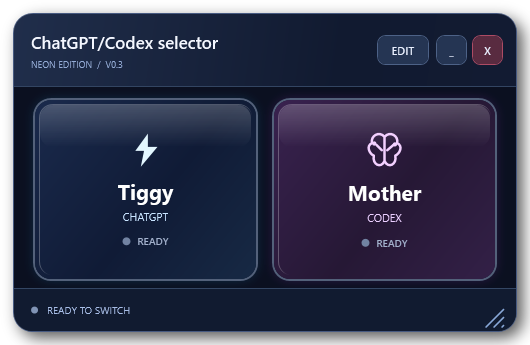
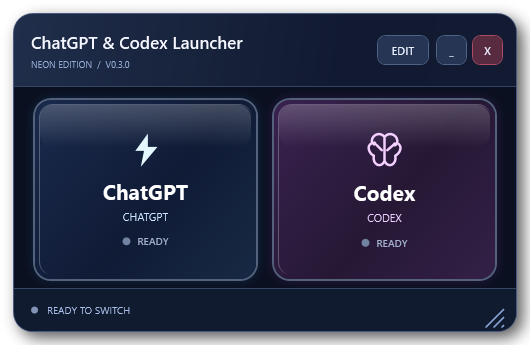
Use clear public ChatGPT and Codex branding

Changed region(s): [[0.1811, 0.5217, 0.3623, 0.6087], [0.1811, 0.087, 0.4528, 0.1449], [0.634, 0.5217, 0.8151, 0.5797]]

diff --git a/README.md b/README.md
@@ -1,6 +1,6 @@
-# Tiggy & Mother Launcher
+# ChatGPT & Codex Launcher
 
-A small floating Windows widget for switching an already-open ChatGPT desktop app between **Tiggy (ChatGPT)** and **Mother (Codex)**.
+A small floating Windows widget for switching an already-open ChatGPT desktop app between **ChatGPT** and **Codex**.
 
 Two buttons, editable names, and an optional always-on-top window. The launcher sends the same keyboard shortcuts you could press yourself.
 
@@ -8,9 +8,15 @@ Two buttons, editable names, and an optional always-on-top window. The launcher 
 
 *Rendered preview of the shipped interface. No desktop or chat content is shown.*
 
+## Why we made it
+
+Switching between ChatGPT and Codex felt clunky and confusing in our everyday use. We wanted a clear choice we could see and reach, so we made a small floating widget with two straightforward buttons.
+
+It keeps the existing app shortcuts and puts the choice within easy reach, with editable labels and an optional always-on-top window.
+
 ## Download and run
 
-1. [Download the latest Windows ZIP](https://github.com/Wilsonious/tiggy-mother-launcher/releases/latest/download/Tiggy-Mother-Launcher-v0.3.0-Windows.zip).
+1. [Download the latest Windows ZIP](https://github.com/Wilsonious/chatgpt-codex-launcher/releases/latest/download/ChatGPT-Codex-Launcher-v0.3.0-Windows.zip).
 2. Review the included source before running it. If the ZIP's **Properties** window shows **Unblock**, select it only if you trust the download, then apply the change.
 3. Use **Extract All** to unpack the ZIP into a normal folder you can write to. Run the launcher from the extracted folder.
 4. Open the **ChatGPT Windows desktop app** and sign in.
@@ -24,8 +30,8 @@ This is a portable script package, with no installer and no administrator requir
 
 | Button | Action in the accepted v0.3 build |
 | --- | --- |
-| **Tiggy** — blue | Focuses a detected ChatGPT desktop window and sends **Alt+3**. On the original tested PC, this selected ChatGPT. |
-| **Mother** — purple | Focuses a detected ChatGPT desktop window and sends **Alt+1**. On the original tested PC, this selected Codex. |
+| **ChatGPT** — blue | Focuses a detected ChatGPT desktop window and sends **Alt+3**. On the original tested PC, this selected ChatGPT. |
+| **Codex** — purple | Focuses a detected ChatGPT desktop window and sends **Alt+1**. On the original tested PC, this selected Codex. |
 
 These shortcut mappings are fixed in the source. ChatGPT app versions or configurations may map them differently; check the shortcuts in your own app before relying on the labels.
 
@@ -42,7 +48,7 @@ The selected card shows the **last mode requested by the widget**. It does not r
 
 *Rendered preview of the shipped interface.*
 
-Settings are saved locally in `%APPDATA%\NeonChatSelector\settings-v0.3.json`. An existing v0.3 settings file is reused. Personal settings are not included in the download.
+Settings are saved locally in `%APPDATA%\NeonChatSelector\settings-v0.3.json`. An existing v0.3 settings file is reused, including its saved button names. Fresh settings use **ChatGPT** and **Codex**. Personal settings are not included in the download.
 
 See [customization and troubleshooting](docs/CUSTOMIZATION.md) for reset steps and source-level changes.
 
@@ -56,7 +62,7 @@ See [customization and troubleshooting](docs/CUSTOMIZATION.md) for reset steps a
 
 There are no third-party PowerShell modules, npm packages, API keys, or REAPER dependencies.
 
-Jack live-tested the original v0.3 launcher and its edit controls on his Windows PC. Other Windows and ChatGPT app versions have not yet been independently validated.
+Jack live-tested the original v0.3 launcher and its edit controls on his Windows PC. The public branding update on **2026-10-08** changes default labels, display text, and comments while preserving that accepted behavior. Other Windows and ChatGPT app versions have not yet been independently validated.
 
 ## Known limits
 
@@ -82,7 +88,7 @@ Close the widget, then delete the extracted folder and any shortcut you created.
 
 ```text
 Start-Launcher.cmd         Windows launch helper
-src/                      Accepted v0.3 PowerShell source
+src/                      v0.3 PowerShell source with public labels
 scripts/Build-Release.ps1  Builds the portable ZIP and SHA-256 checksums
 docs/                     Customization, security, screenshots, release notes
 CHANGELOG.md              Release history

diff --git a/docs/releases/v0.3.0.md b/docs/releases/v0.3.0.md
@@ -1,15 +1,17 @@
-# Tiggy & Mother Launcher v0.3.0
+# ChatGPT & Codex Launcher v0.3.0
 
 Released 2026-10-08.
 
-The first public package of Jack's accepted v0.3 launcher: a small floating Windows widget that switches an already-open ChatGPT desktop app between Tiggy (ChatGPT) and Mother (Codex).
+The first public package of Jack's accepted v0.3 launcher: a small floating Windows widget that switches an already-open ChatGPT desktop app between ChatGPT and Codex.
+
+The branding update on **2026-10-08** changes the public name, default button labels, display text, and comments. The accepted launcher and EDIT behavior are preserved, and the version remains **v0.3.0**.
 
 ## Download
 
-- **Tiggy-Mother-Launcher-v0.3.0-Windows.zip** — portable launcher, source, and documentation.
+- **ChatGPT-Codex-Launcher-v0.3.0-Windows.zip** — portable launcher, source, documentation, and release builder.
 - **SHA256SUMS.txt** — checksums for verifying the release download.
 
-Get these files from the [GitHub release page](https://github.com/Wilsonious/tiggy-mother-launcher/releases/tag/v0.3.0).
+Get these files from the [GitHub release page](https://github.com/Wilsonious/chatgpt-codex-launcher/releases/tag/v0.3.0).
 
 ## Run it
 
@@ -19,18 +21,18 @@ Requires Windows PowerShell 5.1, .NET Framework/WPF, Windows Script Host, and a 
 
 ## What's included
 
-- The accepted v0.3 PowerShell source, with its functionality preserved.
-- A double-click launch helper. The repository also provides a repeatable release build.
+- The v0.3 PowerShell source, with public labels and its accepted functionality preserved.
+- A double-click launch helper and a repeatable release builder included in the ZIP.
 - Documentation, rendered interface previews, and the MIT license.
 
 The original launcher and edit controls were live-tested by Jack on his Windows PC. Other Windows and ChatGPT app versions have not yet been independently validated.
 
 ## Before using it
 
-The blue Tiggy button sends **Alt+3**; the purple Mother button sends **Alt+1**. These mappings selected ChatGPT and Codex on the original tested PC. Check your own app's shortcuts because versions and configurations can differ.
+The blue ChatGPT button sends **Alt+3**; the purple Codex button sends **Alt+1**. These mappings selected ChatGPT and Codex on the original tested PC. Check your own app's shortcuts because versions and configurations can differ.
 
 The widget switches an existing ChatGPT desktop window. It does not start the app, open web links, or control a separate standalone Codex application. Its highlight records the last requested mode rather than confirming success.
 
-Existing preferences in `%APPDATA%\NeonChatSelector\settings-v0.3.json` are reused. No personal settings are included in this package.
+Existing preferences in `%APPDATA%\NeonChatSelector\settings-v0.3.json` are reused, including saved button names. Fresh settings use **ChatGPT** and **Codex**. No personal settings are included in this package.
 
-Read the [README](https://github.com/Wilsonious/tiggy-mother-launcher/blob/v0.3.0/README.md), [customization guide](https://github.com/Wilsonious/tiggy-mother-launcher/blob/v0.3.0/docs/CUSTOMIZATION.md), and [security notes](https://github.com/Wilsonious/tiggy-mother-launcher/blob/v0.3.0/docs/SECURITY.md) for details.
+Read the [README](https://github.com/Wilsonious/chatgpt-codex-launcher/blob/v0.3.0/README.md), [customization guide](https://github.com/Wilsonious/chatgpt-codex-launcher/blob/v0.3.0/docs/CUSTOMIZATION.md), and [security notes](https://github.com/Wilsonious/chatgpt-codex-launcher/blob/v0.3.0/docs/SECURITY.md) for details.

diff --git a/CHANGELOG.md b/CHANGELOG.md
@@ -2,7 +2,14 @@
 
 ## v0.3.0 — 2026-10-08
 
-First public package of Jack's accepted Neon Chat Selector v0.3 launcher.
+First public package of Jack's accepted v0.3 launcher, published as **ChatGPT & Codex Launcher**.
+
+### Public branding update — 2026-10-08
+
+- Renamed the public utility and its default buttons to ChatGPT and Codex.
+- Updated the repository, download name, documentation, and interface previews to match.
+- Source changes are limited to default labels, display text, and comments. The accepted launcher and EDIT behavior are unchanged.
+- Existing v0.3 settings, including custom button names, are reused. Version remains v0.3.0.
 
 ### Included
 
@@ -14,7 +21,7 @@ First public package of Jack's accepted Neon Chat Selector v0.3 launcher.
 
 ### Existing behavior retained
 
-- Blue Tiggy button sends Alt+3; purple Mother button sends Alt+1 to a detected ChatGPT desktop window.
+- Blue ChatGPT button sends Alt+3; purple Codex button sends Alt+1 to a detected ChatGPT desktop window.
 - Editable button names and always-on-top preference.
 - Movable, resizable window with minimize and close controls.
 - Local v0.3 settings and a highlight for the last requested mode.

diff --git a/docs/CUSTOMIZATION.md b/docs/CUSTOMIZATION.md
@@ -4,6 +4,8 @@
 
 Select **EDIT** in the widget to change either button's displayed name or its always-on-top preference. These preferences are saved locally.
 
+Fresh settings use **ChatGPT** for the blue button and **Codex** for the purple button. Existing saved names are kept when upgrading; use **EDIT** to change them if desired.
+
 Changing a name does not change the button's action. The blue button still sends **Alt+3**, and the purple button still sends **Alt+1**.
 
 Move the widget using its title area and resize it from the lower-right corner. Its saved position and size are restored on later runs.
@@ -14,7 +16,7 @@ Move the widget using its title area and resize it from the lower-right corner. 
 %APPDATA%\NeonChatSelector\settings-v0.3.json
 ```
 
-The launcher uses the original v0.3 settings location, so an existing installation's v0.3 preferences are reused. The release ZIP contains no personal settings.
+The launcher uses the original v0.3 settings location, so an existing installation's v0.3 preferences are reused. The branding update on 2026-10-08 preserves this behavior. The release ZIP contains no personal settings.
 
 ## Reset settings
 

diff --git a/docs/SECURITY.md b/docs/SECURITY.md
@@ -2,7 +2,7 @@
 
 ## What the launcher does
 
-The launcher searches for a matching local ChatGPT desktop window, brings it to the foreground, and sends a fixed keyboard shortcut using Windows Script Host. It also saves widget preferences in your local roaming application-data folder.
+ChatGPT & Codex Launcher searches for a matching local ChatGPT desktop window, brings it to the foreground, and sends a fixed keyboard shortcut using Windows Script Host. It also saves widget preferences in your local roaming application-data folder.
 
 It does not make network requests, collect telemetry, read conversations, access an API key, or send chat content anywhere. The ChatGPT app's own network and privacy behavior is separate.
 

diff --git a/docs/LICENSE-CHOICE.md b/docs/LICENSE-CHOICE.md
@@ -1,4 +1,4 @@
-# License choice
+# License choice for ChatGPT & Codex Launcher
 
 **MIT is a practical choice for this small utility.** It lets people use, study, modify, and share the launcher, including in commercial settings, while requiring preservation of the copyright and license notice.
 
